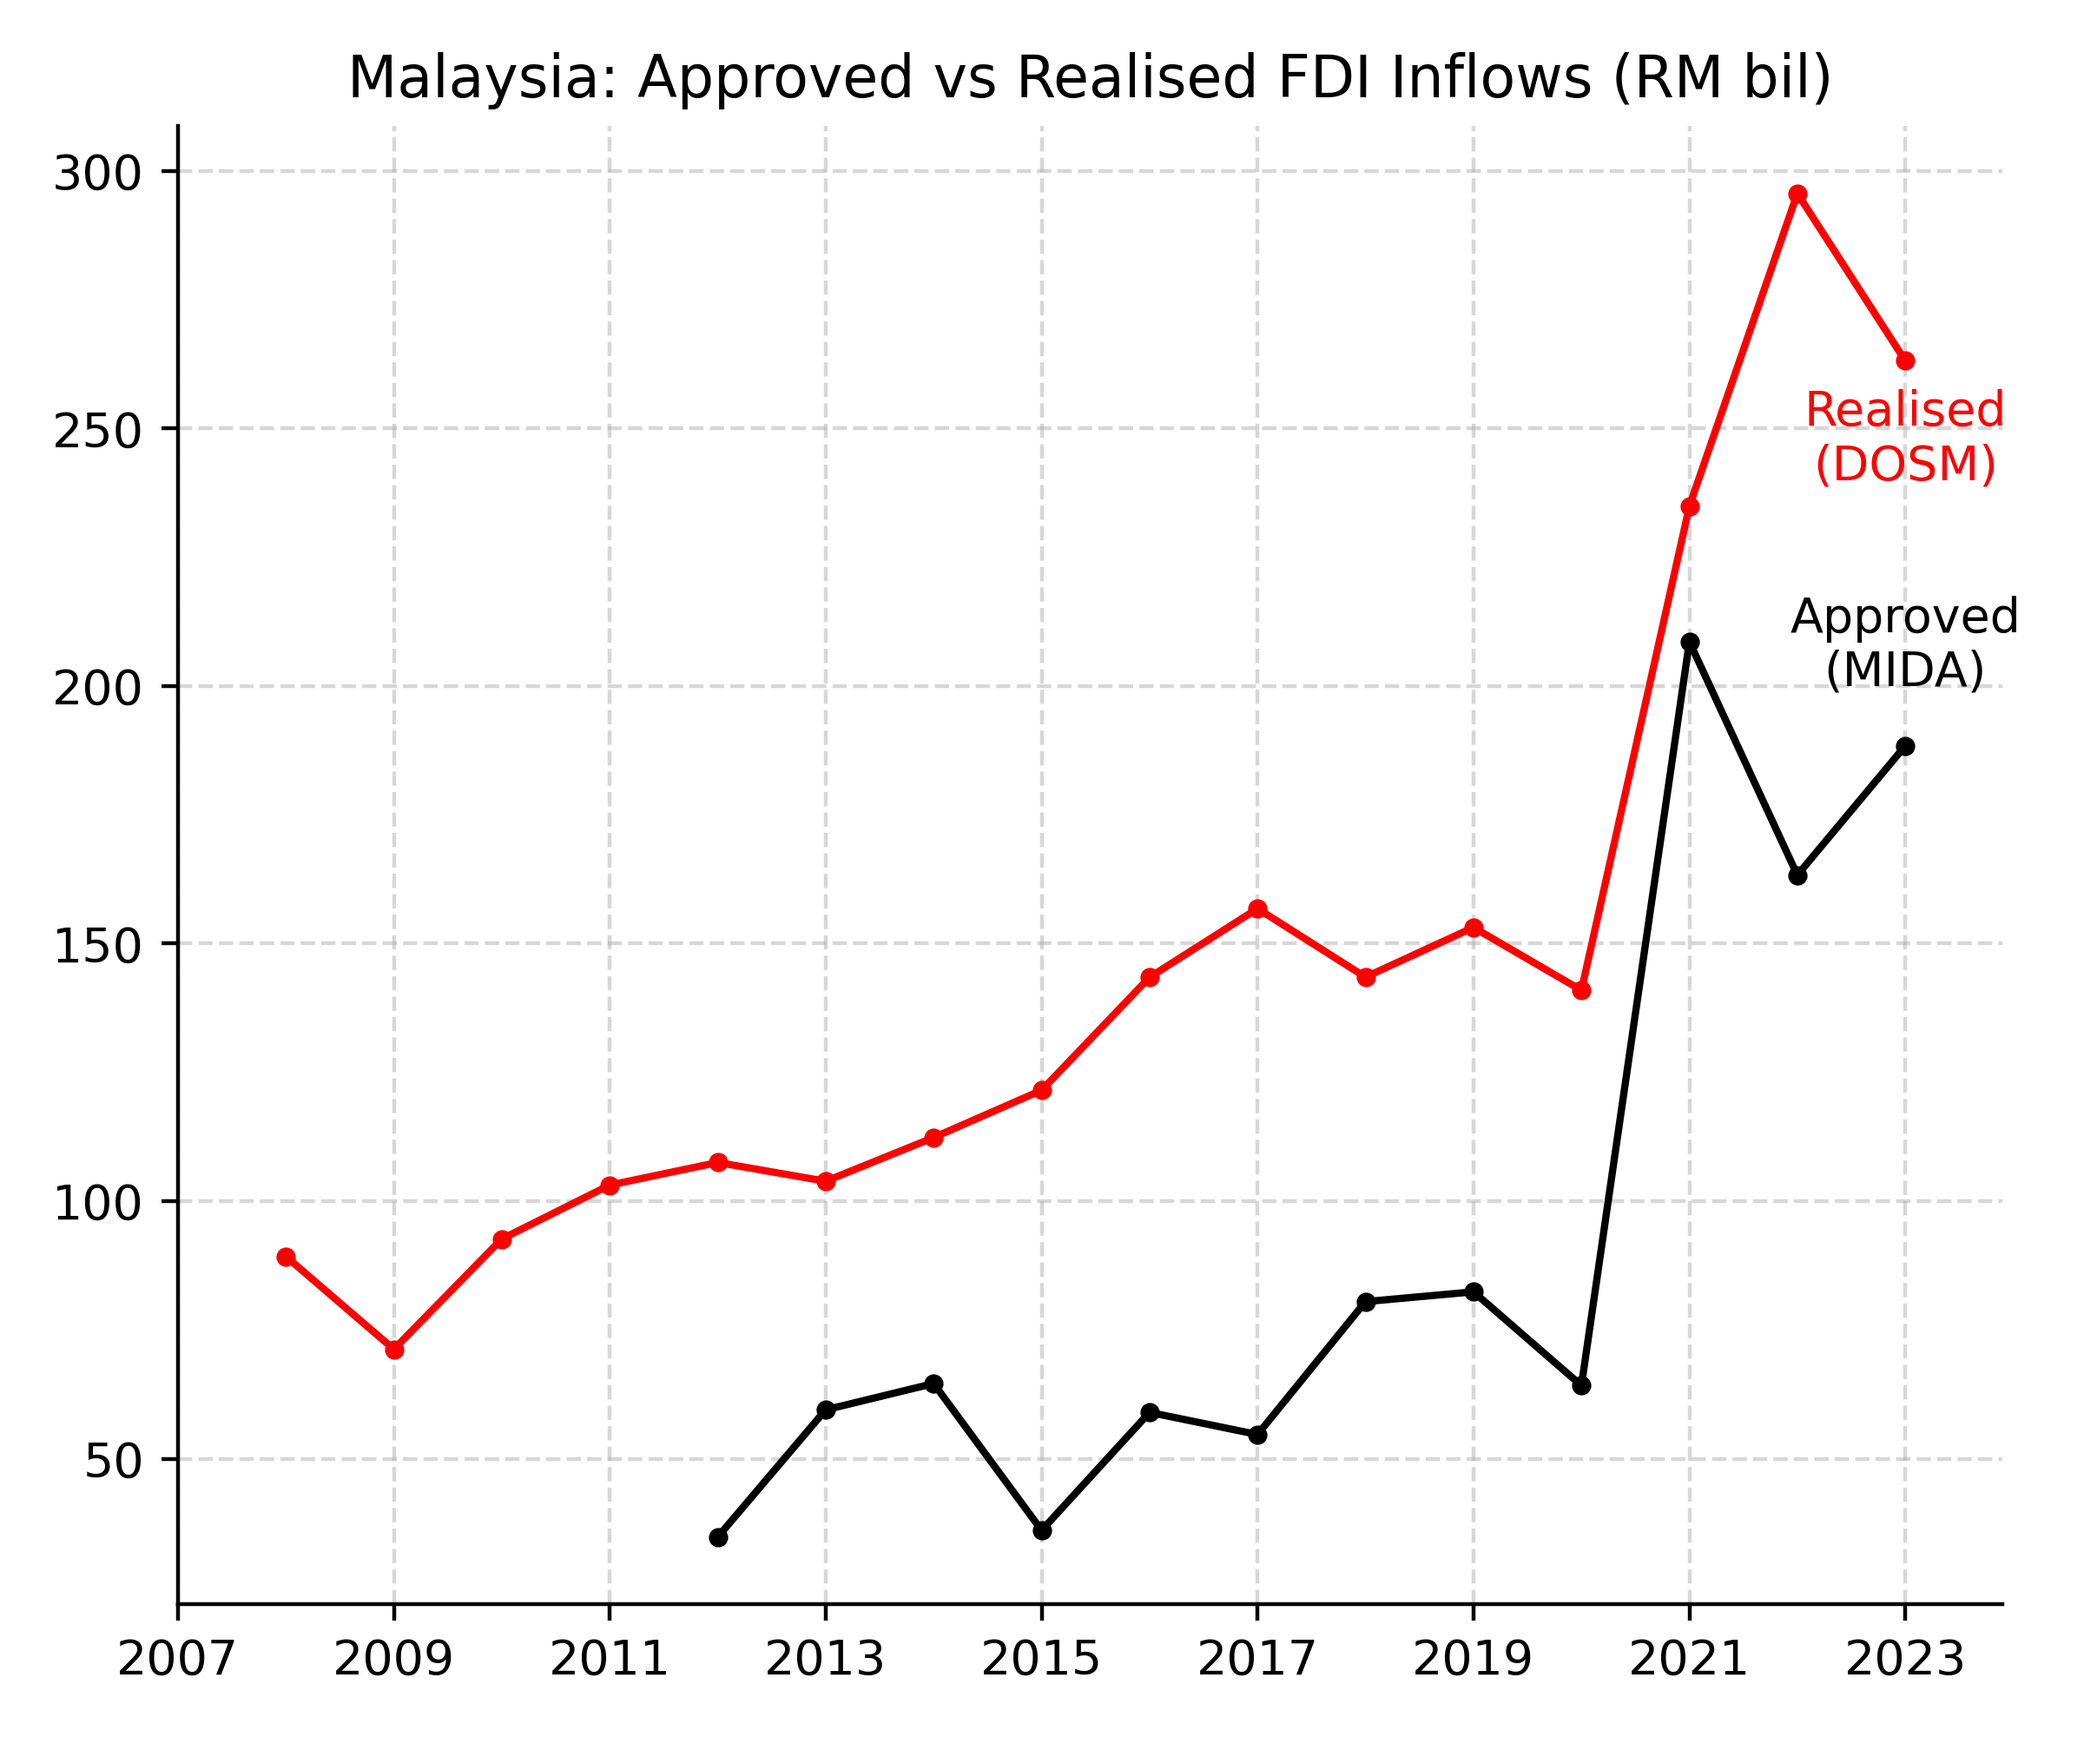
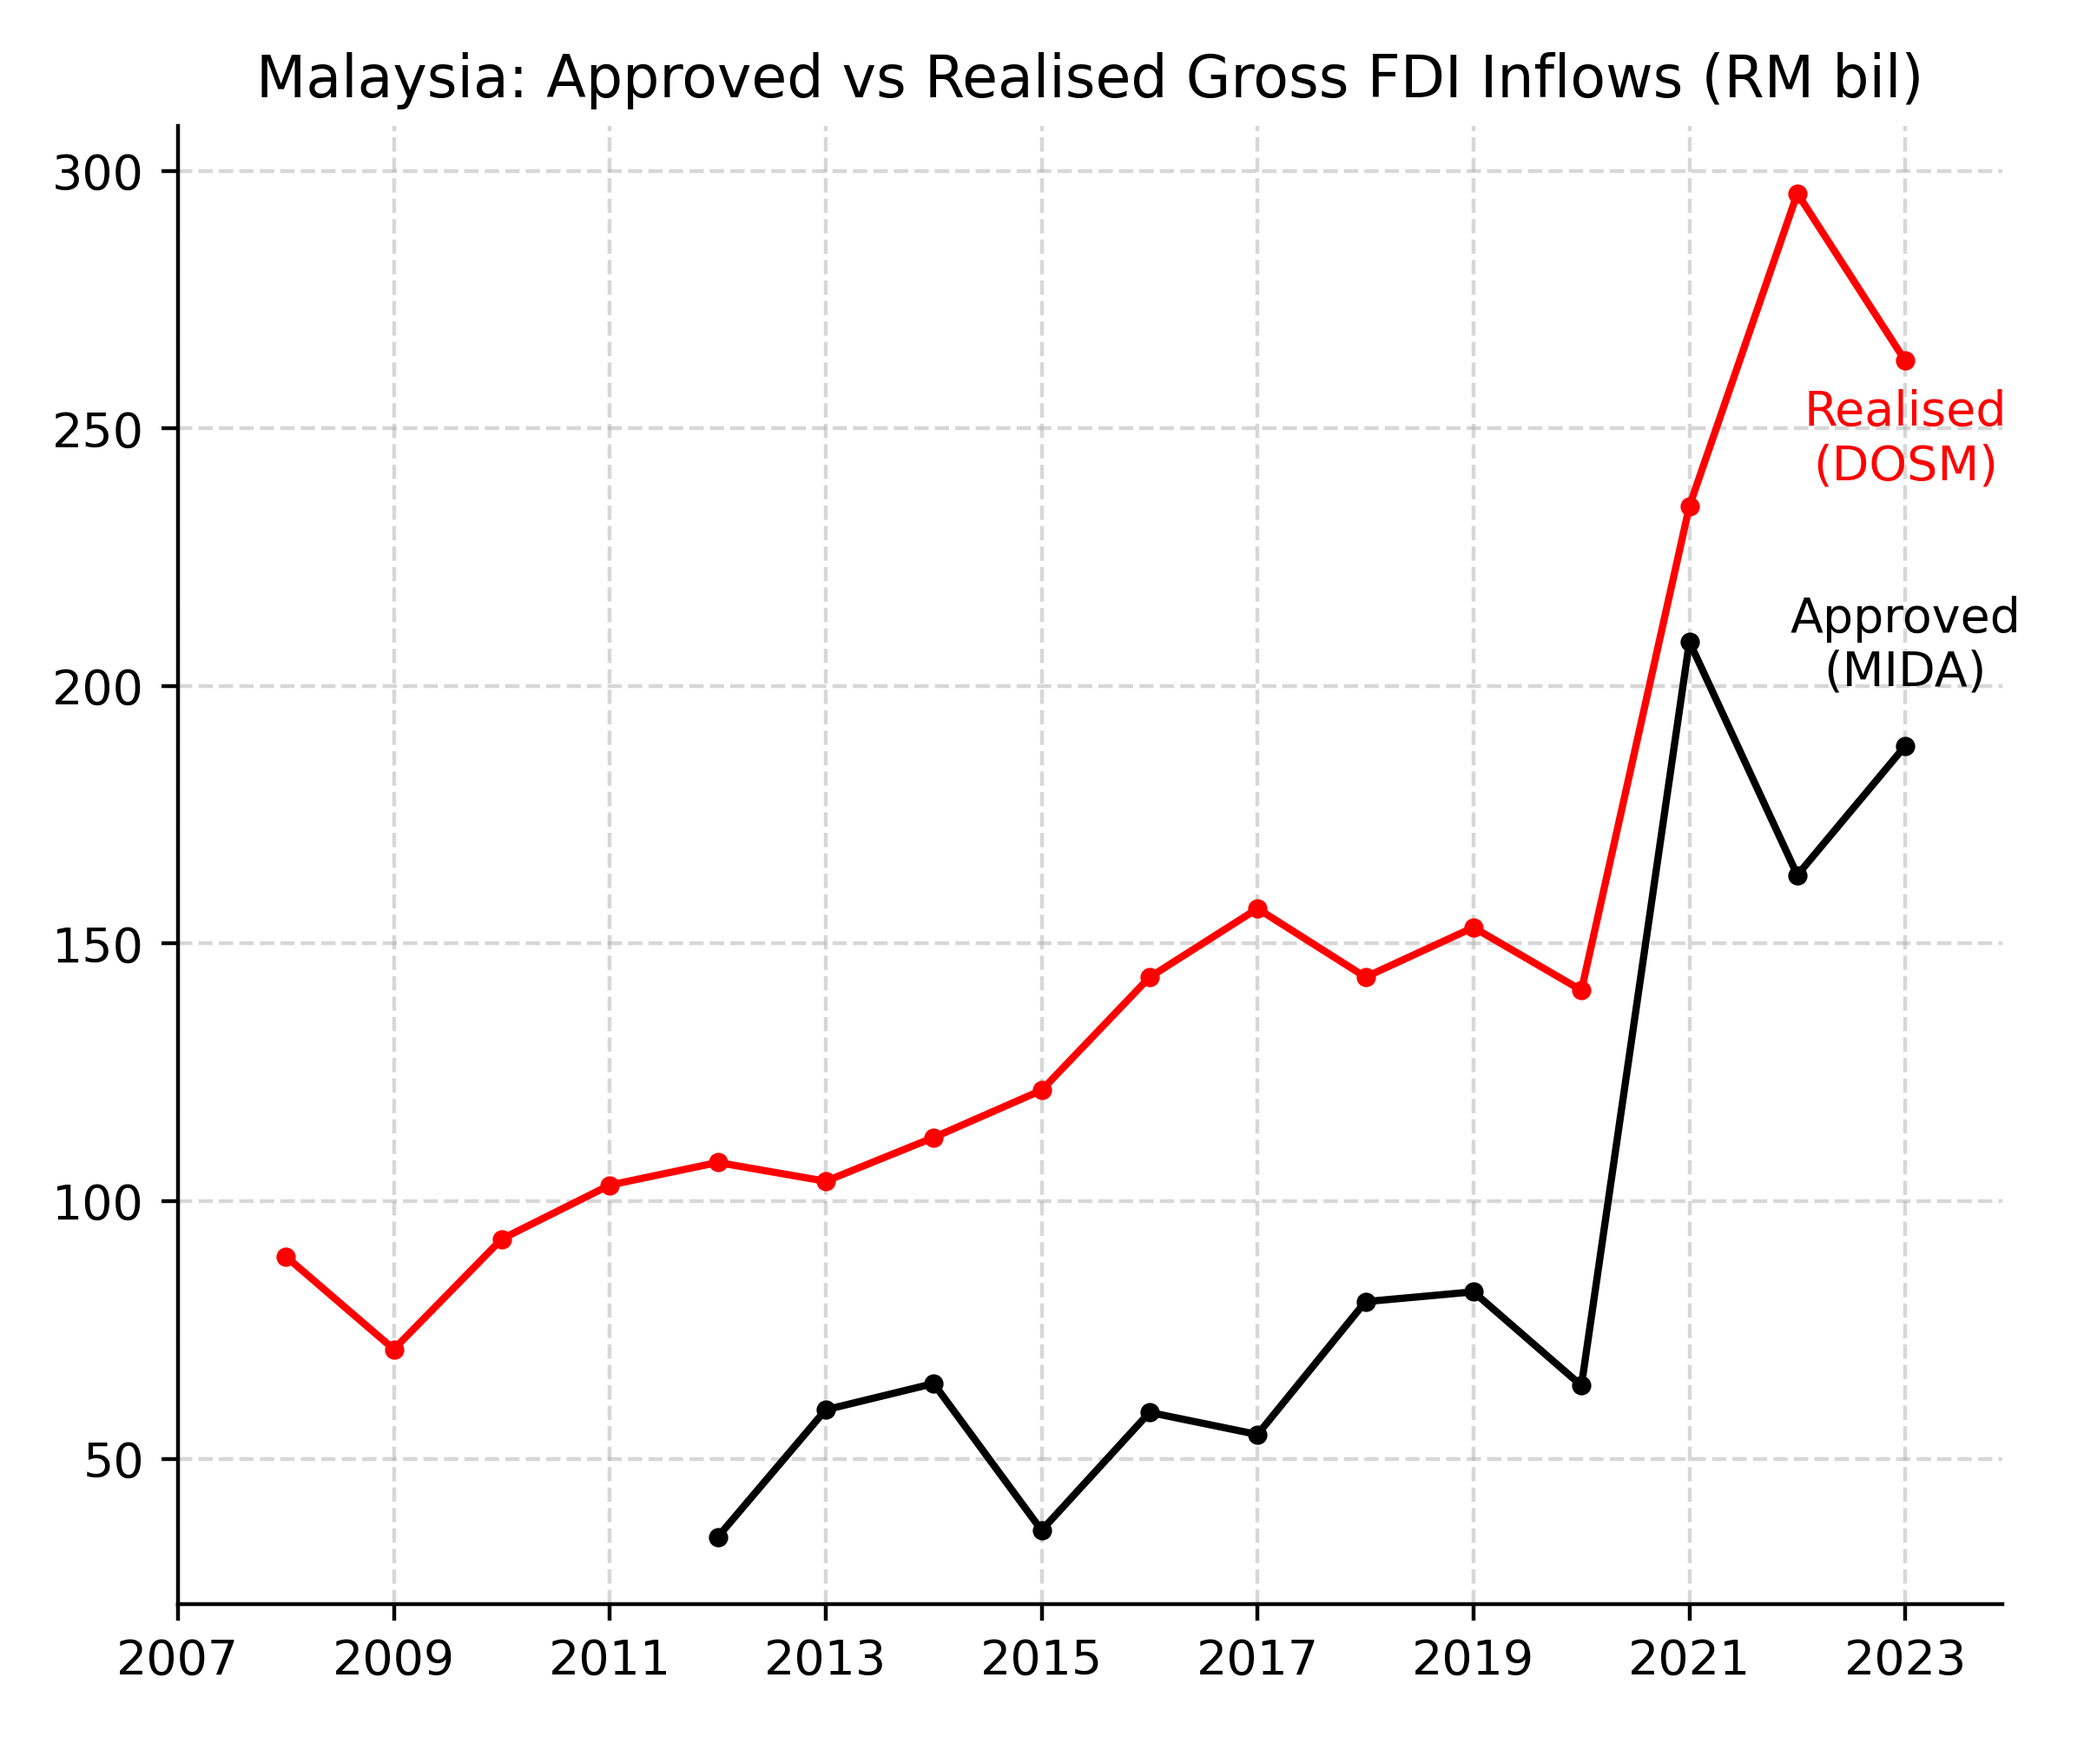
Update title

Changed region(s): [[0.125, 0.031, 0.9375, 0.062]]

diff --git a/2024-09-12_fdi/script.py b/2024-09-12_fdi/script.py
@@ -26,7 +26,7 @@ def timeseries():
         df.plot(y=v,ax=ax,color=c,marker='o',markersize=3,label=v)
 
     # plot-wide adjustments
-    ax.set_title(f"""Malaysia: Approved vs Realised FDI Inflows (RM bil)""",linespacing=1.8)
+    ax.set_title(f"""Malaysia: Approved vs Realised Gross FDI Inflows (RM bil)""",linespacing=1.8)
     for b in ['top','right']: ax.spines[b].set_visible(False)
     ax.set_axisbelow(True)
     ax.get_legend().remove()
